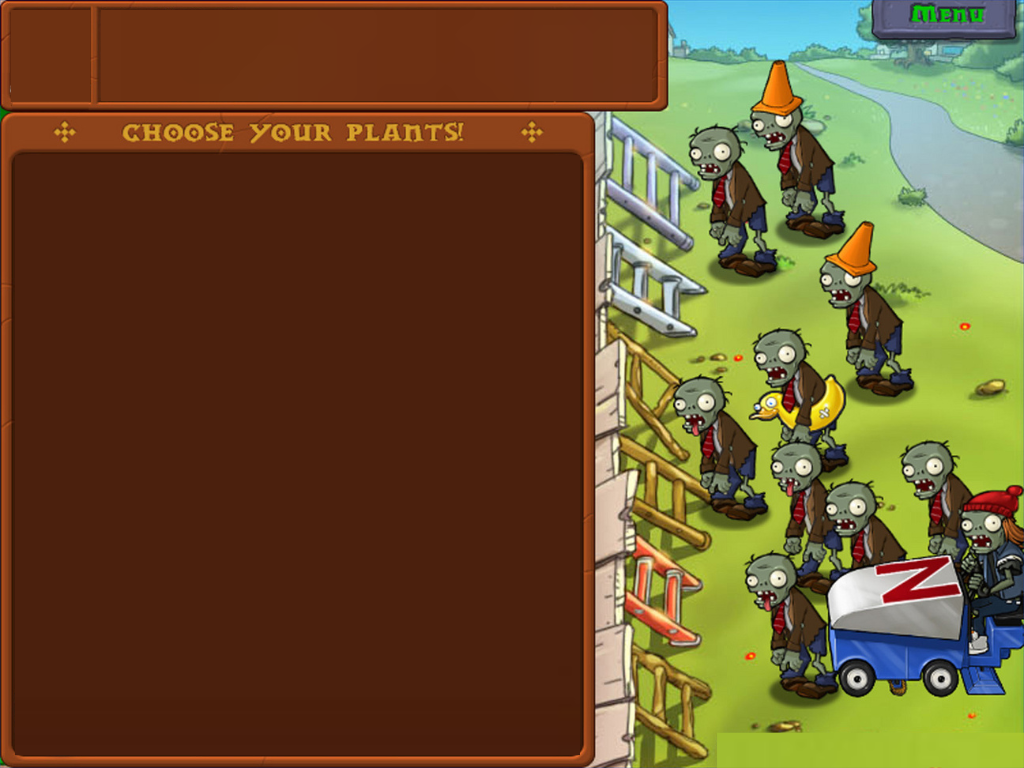
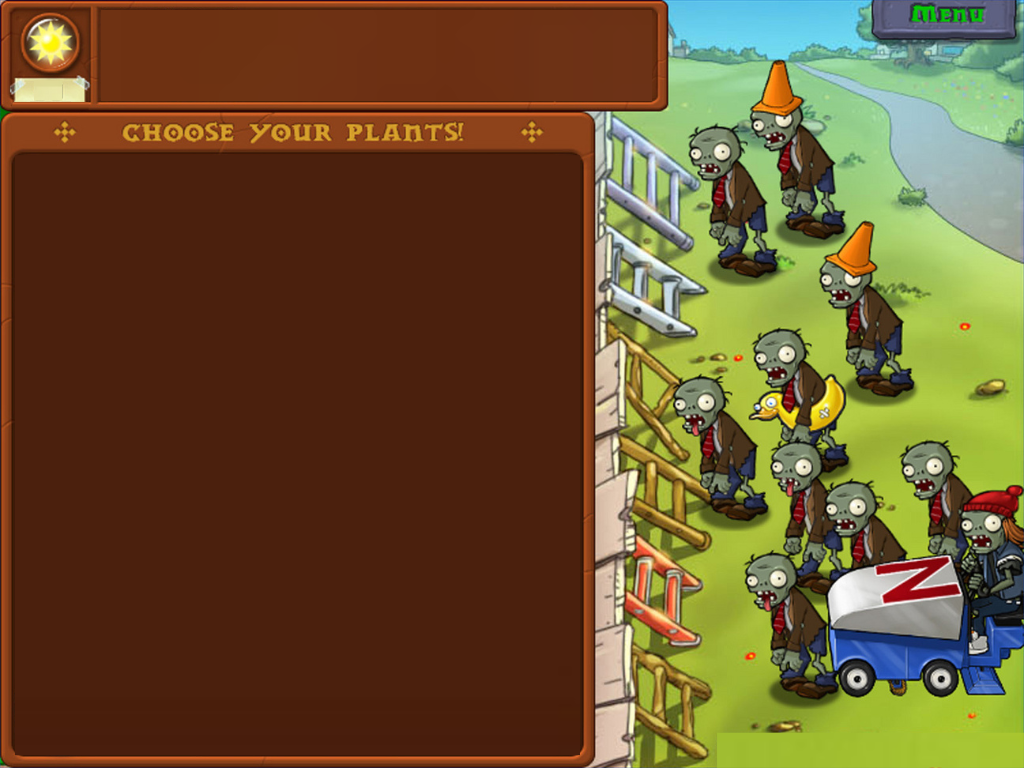
Update: Preparation (Add Sun GUI)

Changed region(s): [[0.0, 0.0, 0.0938, 0.1562]]

diff --git a/src/ui/MyButton.java b/src/ui/MyButton.java
@@ -12,7 +12,7 @@ public class MyButton {
 	public int x, y, width, height, id;
 	private String text, name;
 	private Rectangle bounds;
-	private boolean mouseHover, mousePressed, enable, potentialSwapInventory, potentialSwapDeck, firstSwap;
+	private boolean mouseHover, mousePressed, enable, potentialSwapInventory, potentialSwapDeck, firstSwap, isJustText;
 	private Image image;
 	
 	// For Inventory Buttons
@@ -92,6 +92,19 @@ public class MyButton {
 		initBounds();
 	}
 
+	// For Text Buttons
+	public MyButton(boolean isJustText, String text, int x, int y, int width, int height) {
+		this.isJustText = isJustText;
+		this.text = text;
+		this.x = x;
+		this.y = y;
+		this.width = width;
+		this.height = height;
+		this.id = -1;
+
+		initBounds();
+	}
+
 	private void initBounds() {
 		this.bounds = new Rectangle(x, y, width, height);
 	}
@@ -109,39 +122,49 @@ public class MyButton {
 
 	private void drawBorder(Graphics g) {
 		// g.setColor(Color.black);
-		g.drawRect(x, y, width, height);
-		if (mousePressed && enable) {
-			g.drawRect(x + 1, y + 1, width - 2, height - 2);
-			g.drawRect(x + 2, y + 2, width - 4, height - 4);
-		}
 
-		if ((mouseHover || mousePressed) && enable) {
-			g.setColor(new Color(206, 151, 38));
-			g.drawRect(x + 1, y + 1, width - 2, height - 2);
-			g.drawRect(x + 2, y + 2, width - 4, height - 4);
+		if (isJustText != true) {
+			if (text != null) {
+				g.setColor(new Color(52,120,8));
+			}
+			g.drawRect(x, y, width, height);
+			
+			if (mousePressed && enable) {
+				g.drawRect(x + 1, y + 1, width - 2, height - 2);
+				g.drawRect(x + 2, y + 2, width - 4, height - 4);
+			}
+
+			if ((mouseHover || mousePressed) && enable) {
+				g.setColor(new Color(206, 151, 38));
+				g.drawRect(x + 1, y + 1, width - 2, height - 2);
+				g.drawRect(x + 2, y + 2, width - 4, height - 4);
+			}
+		
+			if (potentialSwapInventory) {
+				g.setColor(Color.YELLOW);
+				g.drawRect(x - 2, y - 2, width + 4, height + 4);
+			} 
+		
+			if (potentialSwapDeck) {
+				g.setColor(Color.YELLOW);
+				g.drawRect(x - 2, y - 2, width + 4, height + 4);
+			}
+		
+			if (firstSwap) {
+				g.setColor(Color.RED);
+				g.drawRect(x - 2, y - 2, width + 4, height + 4);
+			}
 		}
-	
-		if (potentialSwapInventory) {
-			g.setColor(Color.YELLOW);
-			g.drawRect(x - 2, y - 2, width + 4, height + 4);
-		} 
-	
-		if (potentialSwapDeck) {
-			g.setColor(Color.YELLOW);
-			g.drawRect(x - 2, y - 2, width + 4, height + 4);
-		}
-	
-		if (firstSwap) {
-			g.setColor(Color.RED);
-			g.drawRect(x - 2, y - 2, width + 4, height + 4);
-		}
+		
 	}
 	
 
 	private void drawBody(Graphics g) {
-		g.setColor(new Color(90, 43, 20));
-		g.fillRect(x, y, width, height);
-	
+		if (isJustText != true) {
+			g.setColor(new Color(90, 43, 20));
+			g.fillRect(x, y, width, height);
+		}
+		
 		if (image != null) {
 			// Apply grayscale filter if the button is disabled
 			int imgX = x + (width - image.getWidth(null)) / 2;
@@ -153,23 +176,6 @@ public class MyButton {
 			}
 		}
 	}
-	
-	// private Image createGrayImage(Image image) {
-	// 	int width = image.getWidth(null);
-	// 	int height = image.getHeight(null);
-	
-	// 	BufferedImage grayImage = new BufferedImage(width, height, BufferedImage.TYPE_INT_ARGB);
-	
-	// 	Graphics2D g = grayImage.createGraphics();
-	// 	g.drawImage(image, 0, 0, null);
-	// 	g.dispose();
-	
-	// 	ColorSpace cs = ColorSpace.getInstance(ColorSpace.CS_GRAY);
-	// 	ColorConvertOp op = new ColorConvertOp(cs, null);
-	// 	op.filter(grayImage, grayImage);
-	
-	// 	return grayImage;
-	// }
 	
 
 	private void drawText(Graphics g) {
@@ -184,11 +190,16 @@ public class MyButton {
 			if (mouseHover || mousePressed) {
 				g.setColor(new Color(206, 151, 38));
 			}
-			
+
+			if (isJustText == true) {
+				g.setColor(Color.BLACK);
+			}
+
 			// Draw text
 			int textWidth = g.getFontMetrics(font).stringWidth(text);
 			int textHeight = g.getFontMetrics(font).getHeight();
 			g.drawString(text, x + (width - textWidth) / 2, y + (height + textHeight - 9) / 2);
+			
 		}
 	}
 	

diff --git a/src/scenes/Preparation.java b/src/scenes/Preparation.java
@@ -7,6 +7,7 @@ import javax.swing.*;
 import static main.GameStates.MENU;
 import static main.GameStates.PLAYING;
 import static main.GameStates.setGameState;
+import static main.GameStates.valueOf;
 
 import java.awt.Graphics;
 import java.awt.image.BufferedImage;
@@ -16,15 +17,18 @@ import java.awt.Image;
 
 import main.Game;
 import ui.MyButton;
+import entity.Sun;
 
 public class Preparation extends GameScene implements SceneMethods {
     private Inventory inventory;
+    private Sun sun;
 
     // Initialize Buttons
     private MyButton[] inventoryButtons;
     private MyButton[] deckButtons;
     private MyButton[] panelButtons;
     private MyButton menuButton;
+    private MyButton sunText;
 
     // Initialize Booleans for Inventory Swap
     private boolean selectedClear = false;
@@ -56,9 +60,16 @@ public class Preparation extends GameScene implements SceneMethods {
     private int buttonHeightPanel = 50;
     private int spacingPanel = 5;
 
+    // Initialize panel buttons
+    private int startXSun = 38;
+    private int startYSun = 77;
+    private int SunWidth = 25;
+    private int SunHeight = 25;
+
     public Preparation(Game game) {
         super(game);
         inventory = new Inventory();
+        sun = new Sun();
 
         // Initialize Inventories
         inventoryPlants = inventory.getPlants();
@@ -66,6 +77,7 @@ public class Preparation extends GameScene implements SceneMethods {
         deckPlants = inventory.getDeck();
 
         // Initialize Buttons
+        initSunText();
         initMenuButton();
         initButtons();
     }
@@ -75,6 +87,7 @@ public class Preparation extends GameScene implements SceneMethods {
         drawMenuButton(g);
 		drawBG(g);
         drawButtons(g);
+        drawSunText(g);
 	}
 
     private void drawBG(Graphics g) {
@@ -125,6 +138,10 @@ public class Preparation extends GameScene implements SceneMethods {
         return resized;
     }
 
+    private void initSunText() {
+        sunText = new MyButton(true, String.valueOf(sun.getSun()), startXSun, startYSun, SunWidth, SunHeight);
+    }
+    
     private void initMenuButton() {
         menuButton = new MyButton(874, 2, 140, 40, null);
     }
@@ -159,6 +176,11 @@ public class Preparation extends GameScene implements SceneMethods {
 
         refreshInventoryAndDeck();
     }
+
+    private void drawSunText(Graphics g) {
+        sunText.draw(g);
+    }
+
 
     private void drawMenuButton(Graphics g) {
         menuButton.draw(g);

diff --git a/src/entity/Sun.java b/src/entity/Sun.java
@@ -4,25 +4,9 @@ import java.util.Random;
 import java.util.Timer;
 import java.util.TimerTask;
 
-public abstract class Sun {  
+public class Sun {  
     private int sun = 25;
     Timer timer = new Timer();
-    
-    public abstract void addSunSF(); // nanti untuk di extend sama sunflower
-    // ini codenya kalau mau
-    // import java.util.Timer;
-    // import java.util.TimerTask;
-
-    // public class MySun extends Sun {
-        
-    //     public void addSunSF() {
-    //         timer.scheduleAtFixedRate(new TimerTask() {
-    //             public void run() {
-    //                 setSun(getSun() + 25);
-    //             }
-    //         }, 0000, 10000);
-    //     }
-    // }
 
     public void addSunMorning() {
         int period = generateRandomPeriod(5, 10) * 1000;
